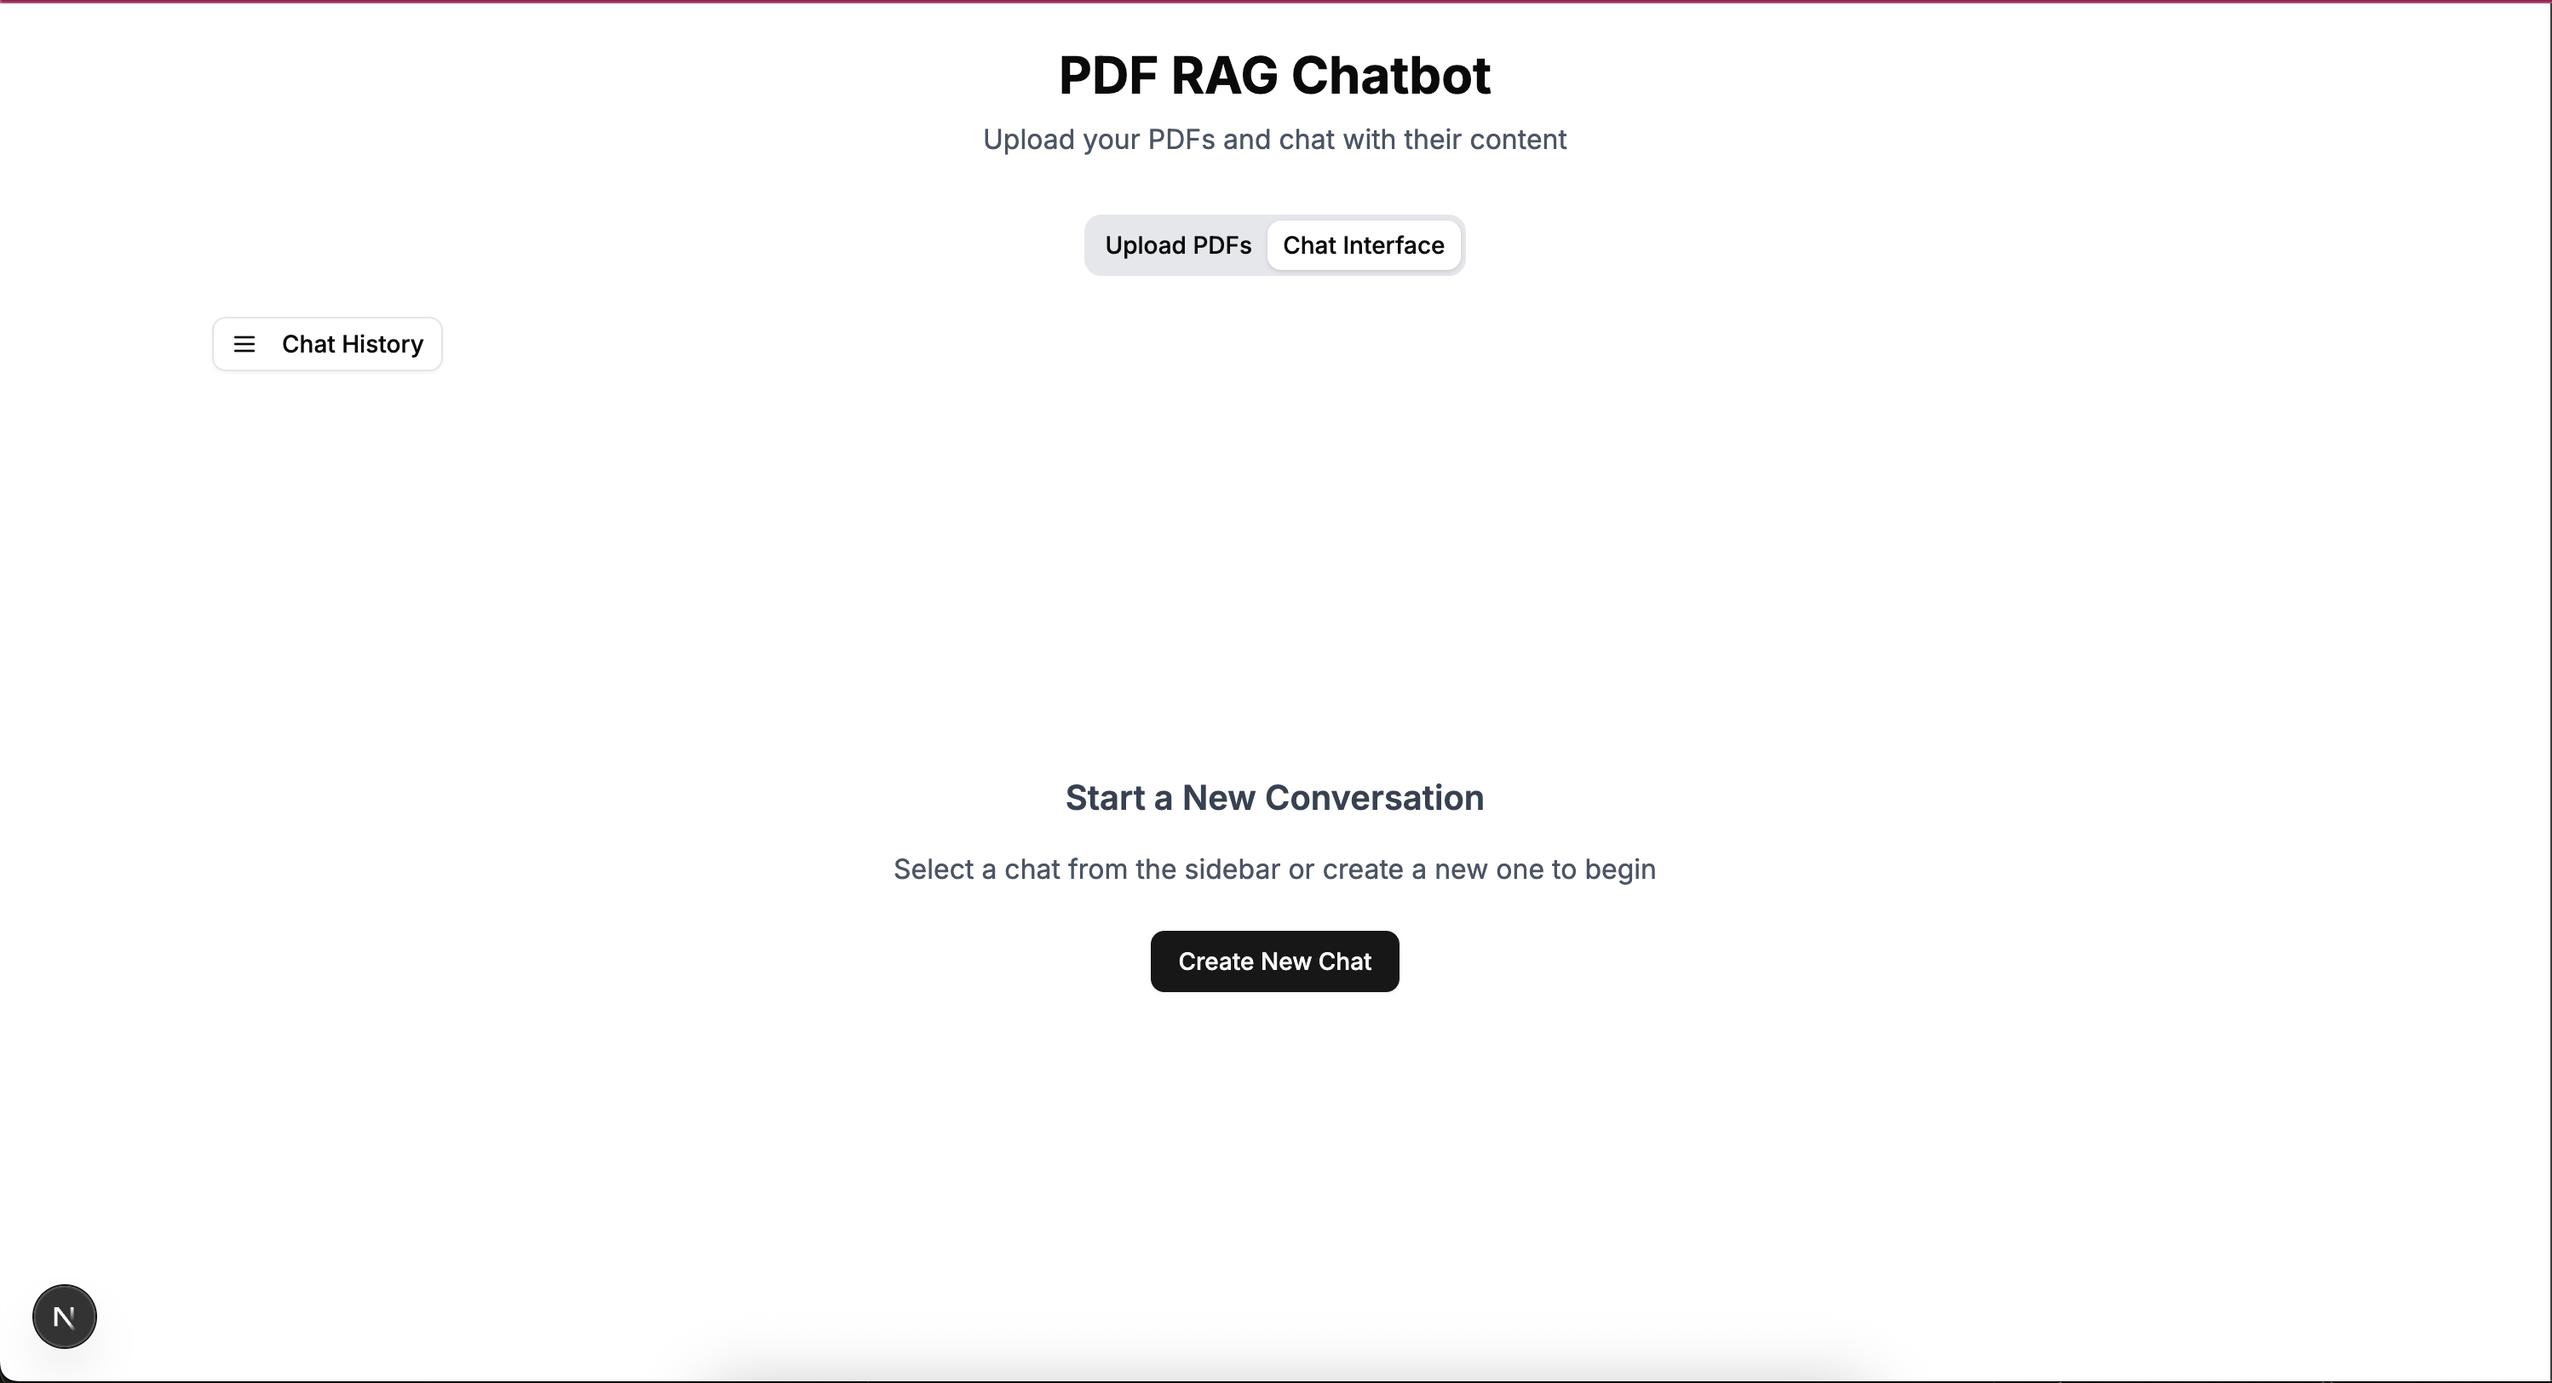
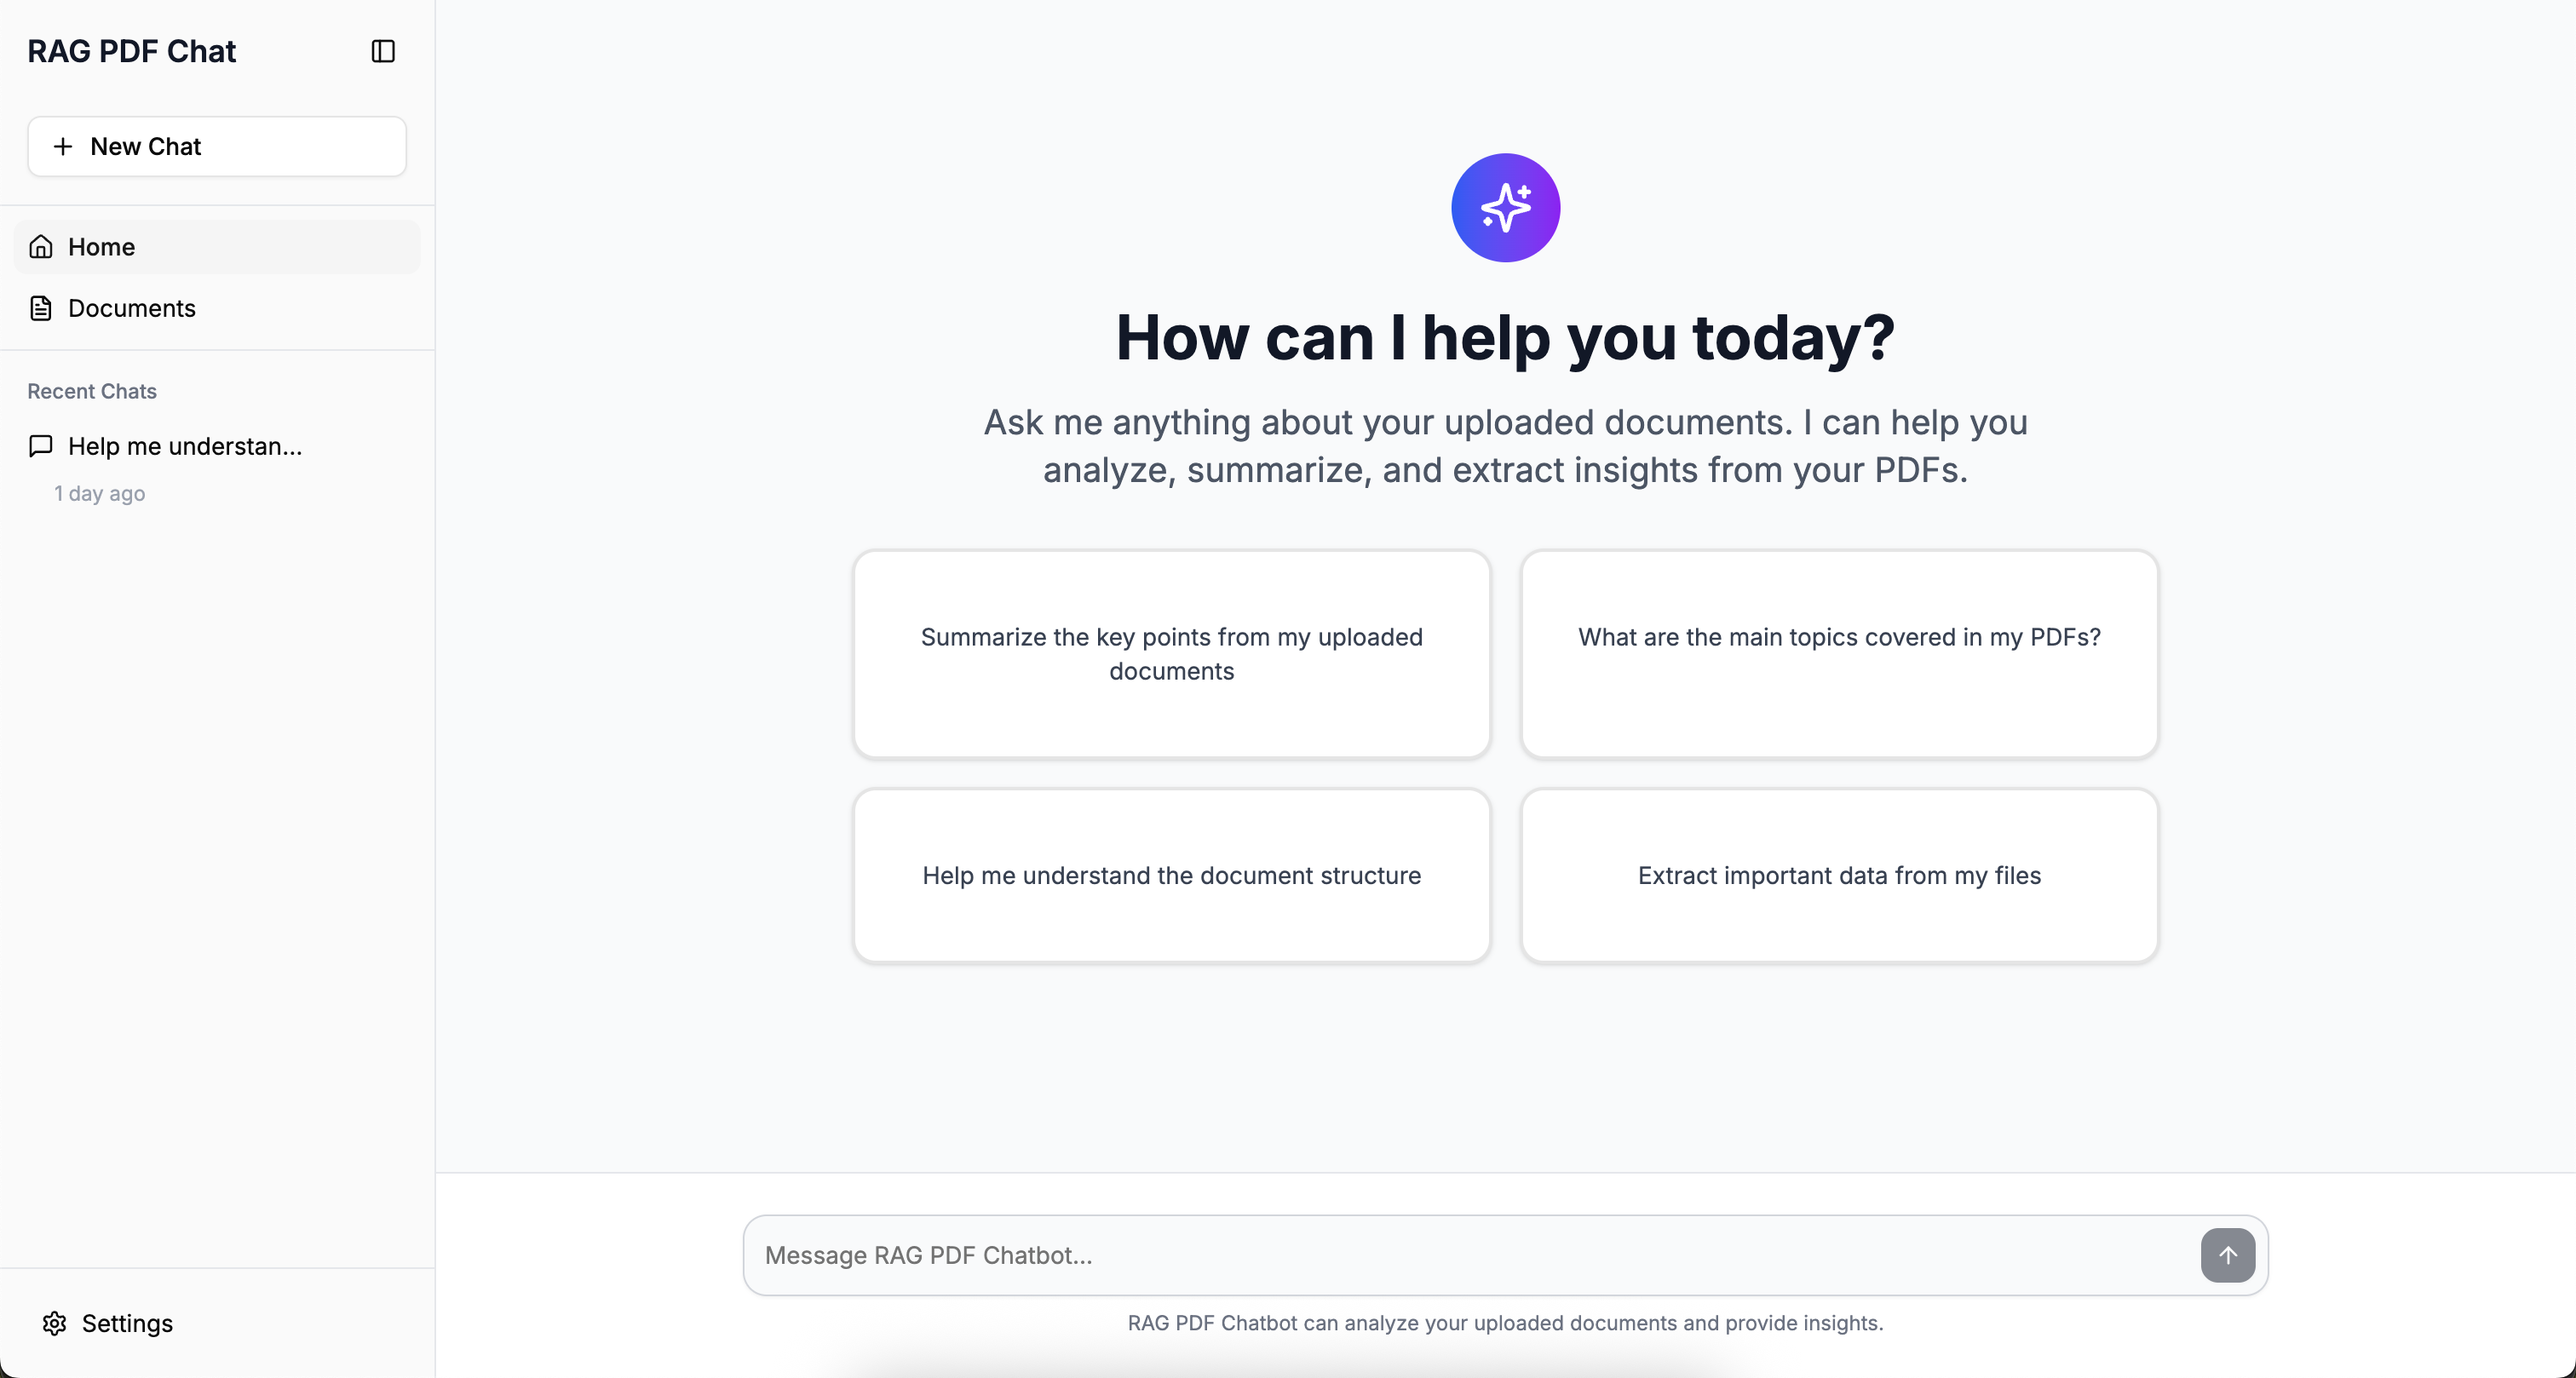
feat: update README with new features and improve UI images

diff --git a/README.md b/README.md
@@ -19,28 +19,30 @@ Perfect for researchers, students, professionals, and anyone who needs to quickl
 ### Home Page
 ![Home Page](./public/Home%20page.png)
 
+### Knowledge Management
+![Knowledge Management](./public/Knowledge%20management.png)
+
 ### PDF Upload Interface
 ![PDF Upload](./public/PDF%20Upload.png)
 
-### Chat Interface
-![Chat Interface](./public/Chat%20page%20(initial).png)
+### Chat Conversation
+![Chat Conversation](./public/Chat%20conversation.png)
 
-### Conversation with Document Sources
+### Chat with Document Sources
 ![Chat with Sources](./public/Chat%20+%20document%20sources.png)
-
-### Chat History Management
-![Chat History](./public/Chat%20history.png)
 
 ## ✨ Key Features
 
-- 📄 **PDF Upload & Processing**: Upload and process PDF documents with intelligent text extraction
-- 🤖 **AI-Powered Chat**: Chat with your PDFs using Claude 3 Haiku for accurate responses
-- 🔍 **Vector Search**: Semantic search through document content using Qdrant vector database
-- 💾 **Persistent Chat History**: PostgreSQL database for storing chat sessions and messages
-- 📚 **Document Sources**: See which parts of your documents the AI referenced in responses
-- 🎨 **Modern UI**: Clean, responsive interface built with Tailwind CSS and Radix UI
-- 🔄 **Real-time Updates**: Live chat interface with streaming responses
-- 📱 **Responsive Design**: Works seamlessly on desktop and mobile devices
+- 🏠 **Intuitive Home Interface**: Clean, welcoming home page with easy navigation to all features
+- 📚 **Knowledge Management System**: Centralized dashboard to manage your PDF document library
+- 📄 **Smart PDF Upload & Processing**: Drag-and-drop interface with intelligent text extraction and chunking
+- 💬 **Conversational Chat Interface**: Natural language conversations with your document collection
+- 🔍 **Semantic Vector Search**: Advanced search through document content using Qdrant vector database
+- � **Document Source Attribution**: Clear citations showing exactly which document sections informed each response
+- 🤖 **AI-Powered Responses**: Accurate answers using Claude 3 Haiku with document context
+- 💾 **Persistent Chat History**: PostgreSQL database for storing chat sessions and conversation history
+- 🎨 **Modern, Responsive UI**: Clean interface built with Tailwind CSS and Radix UI components
+- 🔄 **Real-time Processing**: Live document processing and streaming chat responses
 
 ## 🛠 Technology Stack
 
@@ -209,28 +211,38 @@ curl http://localhost:6333/
 
 ## 📖 How to Use
 
-### 1. Upload PDF Documents
-1. Navigate to the **"Upload PDFs"** tab
+### 1. Start from the Home Page
+Begin your journey on the clean, intuitive home page that provides an overview of the application's capabilities and easy navigation to key features.
+
+### 2. Manage Your Knowledge Base
+Use the **Knowledge Management** interface to:
+- View all uploaded documents
+- Organize your PDF collection
+- Monitor document processing status
+- Remove documents when no longer needed
+
+### 3. Upload PDF Documents
+1. Navigate to the **PDF Upload** interface
 2. Drag and drop PDF files or click to select files
 3. Wait for the processing to complete (documents are chunked and embedded)
-4. You'll see a success message when processing is done
+4. Your documents will be added to your knowledge base automatically
 
-### 2. Start Chatting
-1. Switch to the **"Chat Interface"** tab
-2. Click **"New Chat"** to start a fresh conversation
-3. Type your question about the uploaded documents
-4. The AI will respond with relevant information and show source documents
+### 4. Start Intelligent Conversations
+1. Access the **Chat Interface** to begin conversations
+2. Ask questions about your uploaded documents in natural language
+3. Receive AI-powered responses with contextual understanding
+4. View **document sources** that show exactly which parts of your PDFs were referenced
 
-### 3. Manage Chat History
-- **Create new chats**: Click "New Chat" to start fresh conversations
-- **Edit chat titles**: Click on any chat title to rename it
-- **Delete chats**: Remove conversations you no longer need
-- **View history**: Access all your previous conversations
+### 5. Leverage Document Sources
+- **Source Citations**: See which specific document sections informed each response
+- **Reference Verification**: Click on sources to understand the context
+- **Multi-Document Insights**: Get answers that synthesize information across multiple PDFs
+- **Accurate Attribution**: Trust responses with clear source references
 
-### 4. Understanding Responses
-- **AI Responses**: Get detailed answers based on your documents
-- **Source References**: See which parts of your documents were used
-- **Contextual Follow-ups**: Ask follow-up questions in the same chat
+### 6. Maintain Conversation Flow
+- **Contextual Follow-ups**: Ask related questions in the same conversation
+- **Chat History**: Access previous conversations and continue where you left off
+- **Session Management**: Create new chats for different topics or document sets
 
 ## 🔧 Database Management
 
@@ -322,23 +334,32 @@ rag-pdf-chatbot/
 
 ## 🔍 How It Works
 
-### 1. Document Processing Pipeline
+### 1. User Journey Flow
 ```
-PDF Upload → Text Extraction → Text Chunking → Vector Embedding → Qdrant Storage
-```
-
-### 2. Chat Flow
-```
-User Question → Vector Search → Context Retrieval → AI Processing → Response + Sources
+Home Page → Knowledge Management → PDF Upload → Document Processing → Chat Interface → AI Response with Sources
 ```
 
-### 3. Data Flow
-- **PDFs** are processed using `pdf-parse` to extract text
-- **Text chunks** are created using LangChain's text splitters
-- **Embeddings** are generated using the configured embedding model
-- **Vector search** retrieves relevant chunks from Qdrant
-- **AI responses** are generated using Claude 3 Haiku with retrieved context
-- **Chat history** is stored in PostgreSQL with Prisma ORM
+### 2. Document Processing Pipeline
+```
+PDF Upload Interface → Text Extraction → Text Chunking → Vector Embedding → Qdrant Storage → Knowledge Management Dashboard
+```
+
+### 3. Chat & Retrieval Flow
+```
+User Question → Vector Search → Context Retrieval → AI Processing → Response Generation → Source Attribution Display
+```
+
+### 4. Complete Data Flow
+- **Home Interface** provides intuitive navigation to all features
+- **Knowledge Management** displays and organizes your document library
+- **PDF Upload** processes documents using `pdf-parse` for text extraction
+- **Text Chunking** creates semantic segments using LangChain's text splitters
+- **Vector Embeddings** are generated and stored in Qdrant for semantic search
+- **Chat Interface** enables natural language conversations with your documents
+- **Vector Search** retrieves relevant document chunks based on user questions
+- **AI Processing** uses Claude 3 Haiku to generate contextual responses
+- **Source Attribution** shows exactly which document sections informed each response
+- **Chat History** is persisted in PostgreSQL with full conversation context
 
 ## 🚀 Deployment
 
